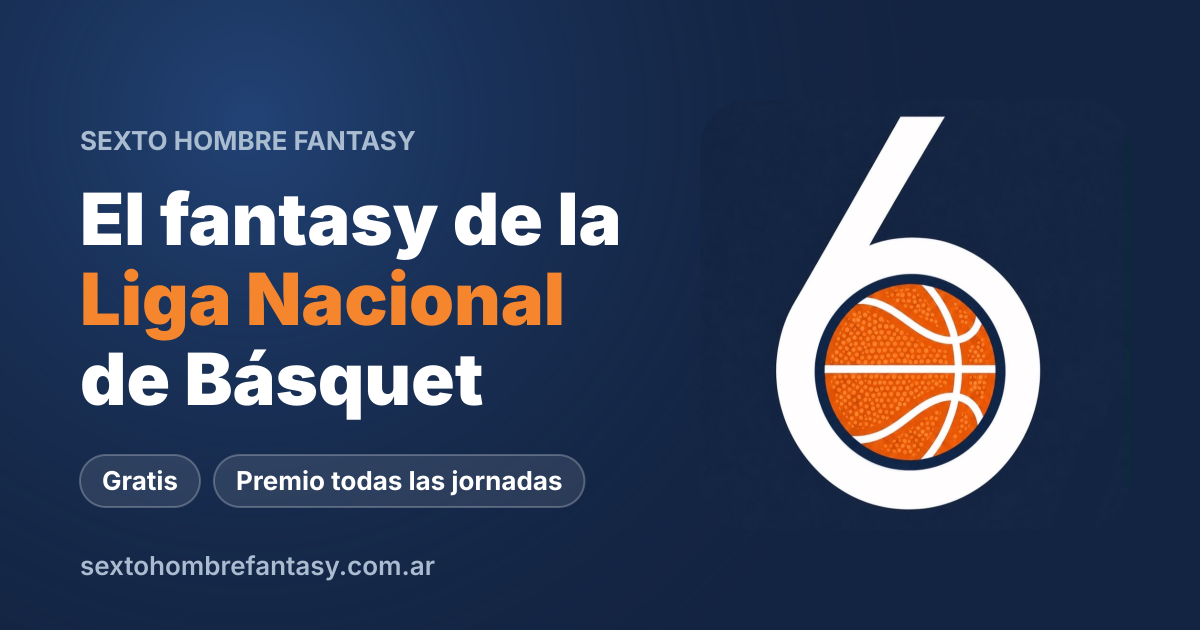
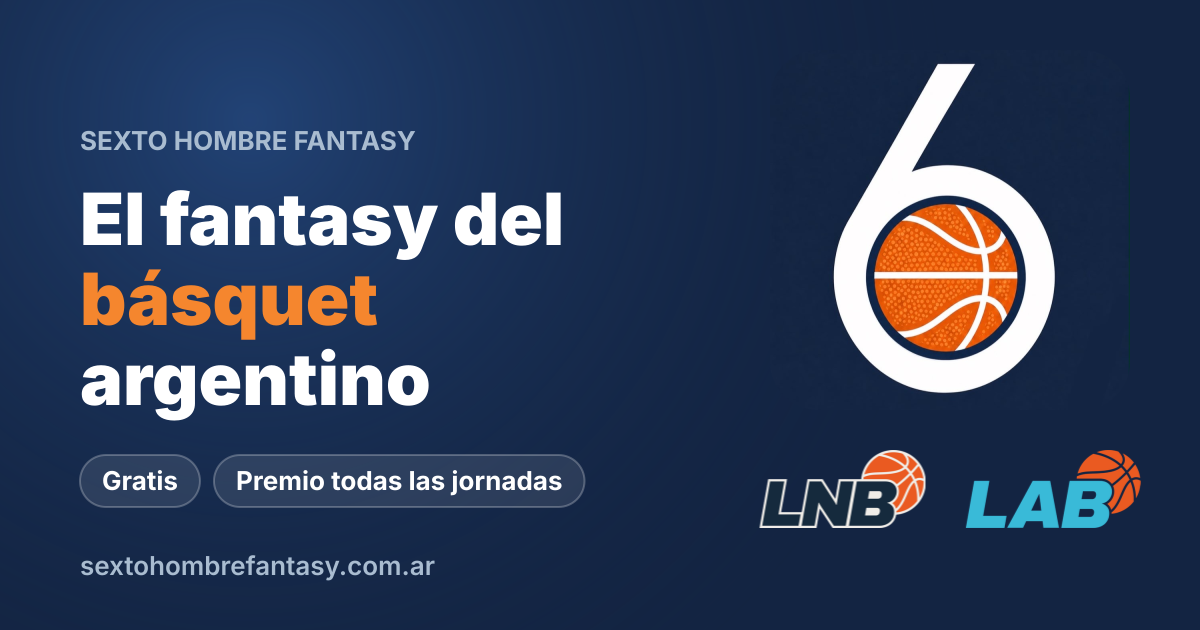
Textos y links pensando en las dos ligas
- Vista previa de los links (título, descripción e imagen): el fantasy del básquet argentino
- Los links de las imágenes compartidas llevan ?liga= de quien comparte
- Logo de la liga en la imagen de la canchita y en la tarjeta de la jornada
- Términos, descripción de la app instalada y pantalla de Premium sin referencias solo a la LNB

(cherry picked from commit 868164a184d131fa36422db19fe7e97e5c35e5ec)

diff --git a/index.html b/index.html
@@ -8,24 +8,24 @@
   <link rel="icon" href="/favicon.ico" sizes="any" />
   <link rel="icon" type="image/png" href="/icons/logo-redondo.png" />
   <meta name="viewport" content="width=device-width, initial-scale=1.0" />
-  <title>Sexto Hombre Fantasy · El fantasy de la Liga Nacional</title>
+  <title>Sexto Hombre Fantasy · El fantasy del básquet argentino</title>
   
   <!-- Open Graph / Redes Sociales (WhatsApp, Instagram, Facebook, X) -->
   <!-- Las URLs tienen que ser absolutas: WhatsApp y Facebook no resuelven rutas relativas -->
   <meta property="og:type" content="website" />
   <meta property="og:site_name" content="Sexto Hombre Fantasy" />
   <meta property="og:locale" content="es_AR" />
-  <meta property="og:title" content="Sexto Hombre Fantasy · El fantasy de la Liga Nacional" />
-  <meta property="og:description" content="Armá tu equipo con jugadores reales de la LNB, sumá puntos con cada partido y competí con tus amigos. Gratis y con premio todas las jornadas." />
+  <meta property="og:title" content="Sexto Hombre Fantasy · El fantasy del básquet argentino" />
+  <meta property="og:description" content="Armá tu equipo con jugadores reales de la Liga Nacional y la Liga Argentina, sumá puntos con cada partido y competí con tus amigos. Gratis y con premio todas las jornadas." />
   <meta property="og:url" content="https://www.sextohombrefantasy.com.ar/" />
   <meta property="og:image" content="https://www.sextohombrefantasy.com.ar/og-image.png" />
   <meta property="og:image:width" content="1200" />
   <meta property="og:image:height" content="630" />
-  <meta property="og:image:alt" content="Sexto Hombre Fantasy, el fantasy de la Liga Nacional de Básquet" />
+  <meta property="og:image:alt" content="Sexto Hombre Fantasy, el fantasy del básquet argentino" />
   <meta name="twitter:card" content="summary_large_image" />
   <meta name="twitter:site" content="@SextoHombreFant" />
-  <meta name="twitter:title" content="Sexto Hombre Fantasy · El fantasy de la Liga Nacional" />
-  <meta name="twitter:description" content="Armá tu equipo con jugadores reales de la LNB y competí con tus amigos. Gratis y con premio todas las jornadas." />
+  <meta name="twitter:title" content="Sexto Hombre Fantasy · El fantasy del básquet argentino" />
+  <meta name="twitter:description" content="Armá tu equipo con jugadores reales de la Liga Nacional y la Liga Argentina y competí con tus amigos. Gratis y con premio todas las jornadas." />
   <meta name="twitter:image" content="https://www.sextohombrefantasy.com.ar/og-image.png" />
 
   <!-- PWA Manifest -->
@@ -42,7 +42,7 @@
   <meta name="theme-color" content="#1A3A6B" />
 
   <!-- General -->
-  <meta name="description" content="El fantasy de la Liga Nacional de Básquet. Armá tu equipo con jugadores reales, sumá puntos con cada partido y competí con tus amigos. Gratis y con premio todas las jornadas." />
+  <meta name="description" content="El fantasy del básquet argentino: Liga Nacional y Liga Argentina. Armá tu equipo con jugadores reales, sumá puntos con cada partido y competí con tus amigos. Gratis y con premio todas las jornadas." />
 </head>
 
 <body>

diff --git a/src/components/compartir/canchitaCanvas.js b/src/components/compartir/canchitaCanvas.js
@@ -6,7 +6,7 @@ import CamisetaSVG from '../jugador/CamisetaSVG'
 import { determinarColorNumero } from '../jugador/camisetaUtils'
 import {
     ANCHO, NARANJA, BLANCO, GRIS, fuente, formatoPuntos, textoAjustado, caja,
-    iniciarLienzo, dibujarLogo, dibujarPie, cargarImagen,
+    iniciarLienzo, dibujarLogo, dibujarLogoLiga, dibujarPie, cargarImagen,
 } from './canvasUtils'
 
 // Cancha: mismo piso de madera y líneas que la canchita de la app (aro abajo)
@@ -202,18 +202,19 @@ async function dibujarJugador(ctx, j, cx, top, { ancho, conPuntos, tamTexto, anc
  *   filas [[jugador]], banco [jugador], dt { nombreCompleto, equipoSigla, puntos }
  *   jugador: { nombre, numero, colorPrincipal, colorSecundario, modelo, rol, puntos }
  */
-export async function dibujarCanchita(canvas, d, logo) {
+export async function dibujarCanchita(canvas, d, logo, logoLiga) {
     const ctx = iniciarLienzo(canvas, null)
 
     // ── Encabezado: logo + equipo ──
     dibujarLogo(ctx, logo, 70, 60, 150, 36)
+    const anchoLiga = dibujarLogoLiga(ctx, logoLiga, ANCHO - 70, 62, 64)
     ctx.textAlign = 'left'
     ctx.fillStyle = NARANJA
     ctx.font = fuente(34, 700)
     const etiquetaJornada = d.jornadaNumero ? `JORNADA ${d.jornadaNumero}` : ''
     ctx.fillText(d.conPuntos ? etiquetaJornada : ['MI EQUIPO', etiquetaJornada].filter(Boolean).join(' · '), 250, 100)
     ctx.fillStyle = BLANCO
-    textoAjustado(ctx, d.nombreEquipo || 'Mi equipo', 250, 168, ANCHO - 250 - 70, 60, 700, 40)
+    textoAjustado(ctx, d.nombreEquipo || 'Mi equipo', 250, 168, ANCHO - 250 - 70 - (anchoLiga ? anchoLiga + 24 : 0), 60, 700, 40)
     if (d.conPuntos) {
         ctx.fillStyle = BLANCO
         ctx.font = fuente(46, 700)

diff --git a/src/components/compartir/ModalImagenCompartible.jsx b/src/components/compartir/ModalImagenCompartible.jsx
@@ -5,6 +5,7 @@ import { useUiStore } from '../../store/uiStore'
 import { compartirImagen, puedeCompartirArchivos, descargarBlob } from '../../utils/compartir'
 import { track } from '../../utils/analytics'
 import { cargarImagen, cargarFuentes } from './canvasUtils'
+import { ligaActual } from '../../store/ligaStore'
 
 // iPhone/iPad (los iPad nuevos se presentan como Mac con pantalla táctil)
 const esIOS = typeof navigator !== 'undefined' && (
@@ -17,7 +18,7 @@ const esIOS = typeof navigator !== 'undefined' && (
  * Lo usan la tarjeta de la jornada y la canchita.
  *
  * - datos: lo que necesita `dibujar`; mientras sea null no se dibuja (cargando o sin datos).
- * - dibujar: async (canvas, datos, logo) => void
+ * - dibujar: async (canvas, datos, logo, logoLiga) => void
  * - contentType: para el evento `share` de GA (ej. 'tarjeta_jornada', 'canchita').
  */
 export default function ModalImagenCompartible({
@@ -36,10 +37,13 @@ export default function ModalImagenCompartible({
 
         ;(async () => {
             await cargarFuentes()
-            const logo = await cargarImagen('/icons/logo-cuadrado.jpg')
+            const [logo, logoLiga] = await Promise.all([
+                cargarImagen('/icons/logo-cuadrado.jpg'),
+                cargarImagen(ligaActual().logo),
+            ])
             if (cancelado) return
             const canvas = canvasRef.current
-            await dibujar(canvas, datos, logo)
+            await dibujar(canvas, datos, logo, logoLiga)
             if (cancelado) return
             canvas.toBlob(blob => {
                 if (cancelado || !blob) return

diff --git a/src/pages/TerminosPage.jsx b/src/pages/TerminosPage.jsx
@@ -37,7 +37,7 @@ export default function TerminosPage() {
 
                         <h2 className="text-lg font-bold text-accent mt-6">2. Propiedad Intelectual y Exención de Asociación</h2>
                         <p>
-                            Sexto Hombre Fantasy es un proyecto independiente. <strong>No estamos afiliados, asociados, autorizados, respaldados ni conectados oficialmente de ninguna manera con la Liga Nacional de Básquet (LNB), la Asociación de Clubes (AdC)</strong>, ni con ninguno de sus clubes miembros.
+                            Sexto Hombre Fantasy es un proyecto independiente. <strong>No estamos afiliados, asociados, autorizados, respaldados ni conectados oficialmente de ninguna manera con la Liga Nacional de Básquet (LNB), la Liga Argentina de Básquet, la Asociación de Clubes (AdC)</strong>, ni con ninguno de sus clubes miembros.
                         </p>
                         <p>
                             Los nombres de los equipos y jugadores reales se utilizan de manera nominal y descriptiva con el único fin de reflejar datos estadísticos de dominio público. Todos los nombres, marcas registradas y logos de terceros pertenecen a sus respectivos dueños.

diff --git a/src/components/compartir/tarjetaJornadaCanvas.js b/src/components/compartir/tarjetaJornadaCanvas.js
@@ -2,7 +2,7 @@
 // en WhatsApp / Instagram. Separado del modal para poder probarlo solo.
 import {
     ANCHO, NARANJA, BLANCO, GRIS, fuente, formatoPuntos, textoAjustado, caja,
-    iniciarLienzo, dibujarLogo, dibujarPie,
+    iniciarLienzo, dibujarLogo, dibujarLogoLiga, dibujarPie,
 } from './canvasUtils'
 
 /**
@@ -11,7 +11,7 @@ import {
  *   totalParticipantesFecha, posicionGlobal, colorClub, mvp {nombre, puntos}, capitan {nombre, puntos}
  * @param {HTMLImageElement} logo
  */
-export function dibujarTarjetaJornada(canvas, d, logo) {
+export function dibujarTarjetaJornada(canvas, d, logo, logoLiga) {
     // Fondo con brillo del color del club favorito
     const ctx = iniciarLienzo(canvas, d.colorClub)
     const cx = ANCHO / 2
@@ -19,6 +19,7 @@ export function dibujarTarjetaJornada(canvas, d, logo) {
     // ── Logo y marca ──
     const L = 260
     dibujarLogo(ctx, logo, cx - L / 2, 90, L, 60)
+    dibujarLogoLiga(ctx, logoLiga, ANCHO - 60, 60, 80)
     ctx.fillStyle = GRIS
     ctx.font = fuente(34)
     ctx.letterSpacing = '8px'

diff --git a/src/utils/compartir.js b/src/utils/compartir.js
@@ -23,9 +23,10 @@ export const conUtm = (url, { source, medium, campaign }) => {
 export const linkInvitacion = (torneo, source) =>
     conUtm(torneo.urlInvitacion ?? '', { source, medium: 'invitacion', campaign: 'liga' })
 
-// Link al sitio para las imágenes que se comparten (tarjeta de jornada, canchita)
+// Link al sitio para las imágenes que se comparten (tarjeta de jornada, canchita).
+// Lleva la liga para que quien lo abra caiga en la misma liga
 export const linkSitioCompartido = (contenido) =>
-    conUtm(URL_SITIO, { source: 'compartir', medium: contenido })
+    conUtm(`${URL_SITIO}?liga=${ligaActual().id}`, { source: 'compartir', medium: contenido })
 
 // Celular/tablet (los iPad nuevos se presentan como Mac con pantalla táctil)
 const esCelular = () => typeof navigator !== 'undefined' && (

diff --git a/src/pages/PremiumSuccess.jsx b/src/pages/PremiumSuccess.jsx
@@ -30,7 +30,7 @@ export default function PremiumSuccess() {
             </div>
             <h1 className="text-3xl font-bold mb-4 text-textMain">¡Felicidades, sos Premium!</h1>
             <p className="text-textMuted max-w-md mx-auto mb-8">
-                El pago se procesó correctamente. Ya tenés acceso al Analista LNB, transferencias ilimitadas y mucho más.
+                El pago se procesó correctamente. Ya tenés acceso al Analista Consejero, transferencias ilimitadas y mucho más.
             </p>
             <button 
                 onClick={() => navigate('/canchita')}

diff --git a/src/components/compartir/canvasUtils.js b/src/components/compartir/canvasUtils.js
@@ -85,6 +85,14 @@ export function dibujarLogo(ctx, logo, x, y, lado, radio) {
     ctx.restore()
 }
 
+// Logo de la liga (apaisado) con el borde derecho en xDerecha. Devuelve el ancho que ocupó
+export function dibujarLogoLiga(ctx, logoLiga, xDerecha, y, alto) {
+    if (!logoLiga) return 0
+    const ancho = logoLiga.width * alto / logoLiga.height
+    ctx.drawImage(logoLiga, xDerecha - ancho, y, ancho, alto)
+    return ancho
+}
+
 // Cierre común: invitación a jugar + URL
 export function dibujarPie(ctx) {
     const cx = ANCHO / 2
